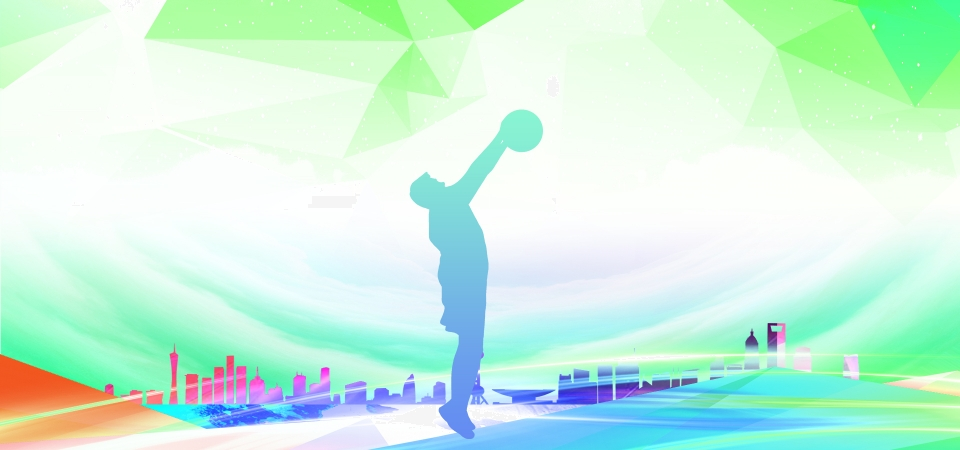
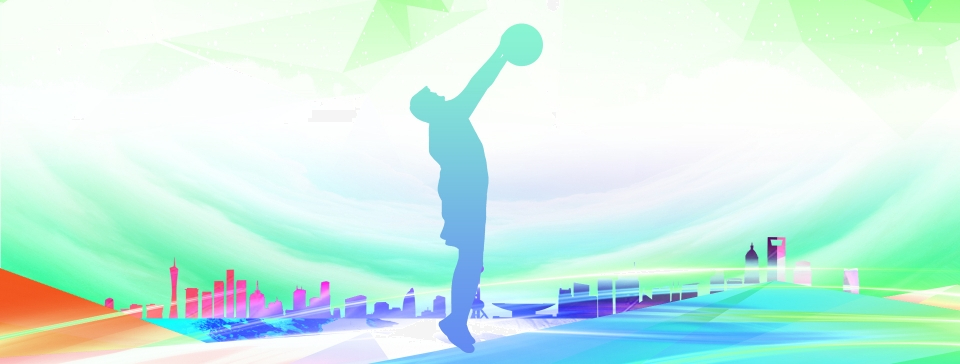
carousel + background index

diff --git a/index.html b/index.html
@@ -3,12 +3,15 @@
   <head>
     <meta charset='utf-8'>
     <meta name="viewport" content="width=device-width, initial-scale=1">
-    <title>' Nom user'</title>
+    <title>Sport'Isen</title>
     <link href="styles/index.css" rel="stylesheet">
     <!-- <link href="styles/search.css" rel="stylesheet"> -->
     <link rel="stylesheet" href="https://cdnjs.cloudflare.com/ajax/libs/font-awesome/6.1.1/css/all.min.css" integrity="sha512-KfkfwYDsLkIlwQp6LFnl8zNdLGxu9YAA1QvwINks4PhcElQSvqcyVLLD9aMhXd13uQjoXtEKNosOWaZqXgel0g==" crossorigin="anonymous" referrerpolicy="no-referrer" />
     <link href="https://cdn.jsdelivr.net/npm/bootstrap@5.2.0-beta1/dist/css/bootstrap.min.css" rel="stylesheet" integrity="sha384-0evHe/X+R7YkIZDRvuzKMRqM+OrBnVFBL6DOitfPri4tjfHxaWutUpFmBp4vmVor" crossorigin="anonymous">
     <script type="module" src="js/moyrate.js"></script>
+    <script src="https://code.jquery.com/jquery-3.2.1.slim.min.js" integrity="sha384-KJ3o2DKtIkvYIK3UENzmM7KCkRr/rE9/Qpg6aAZGJwFDMVNA/GpGFF93hXpG5KkN" crossorigin="anonymous"></script>
+<script src="https://cdn.jsdelivr.net/npm/popper.js@1.12.9/dist/umd/popper.min.js" integrity="sha384-ApNbgh9B+Y1QKtv3Rn7W3mgPxhU9K/ScQsAP7hUibX39j7fakFPskvXusvfa0b4Q" crossorigin="anonymous"></script>
+<script src="https://cdn.jsdelivr.net/npm/bootstrap@4.0.0/dist/js/bootstrap.min.js" integrity="sha384-JZR6Spejh4U02d8jOt6vLEHfe/JQGiRRSQQxSfFWpi1MquVdAyjUar5+76PVCmYl" crossorigin="anonymous"></script>
     <script src="https://code.jquery.com/jquery-3.6.0.min.js" integrity="sha256-/xUj+3OJU5yExlq6GSYGSHk7tPXikynS7ogEvDej/m4=" crossorigin="anonymous"></script>
 </head>
   <body>
@@ -27,10 +30,62 @@
         </div>
       </div>
     </nav>
-
-    <!-- Carousel -->
     <img src="resources/library/backgroundIndex.jpg" style="width: 100%;">
-    <div class="carousel">
+    <!-- Carousel -->
+    
+
+    <div id="carouselExampleControls" class="carousel slide" data-ride="carousel" data-pause="hover" data-interval="10000">
+      <div class="carousel-inner">
+        <div class="carousel-item active">
+          <p>Note des utilisateurs</p>
+          <div class="container" style="padding-top: 1em; padding-left: 8em;">
+            <div class="rate">
+              <span class="fa-stack">
+                <i class="fa-solid fa-star-half fa-stack-1x" id="0.5" style="color: white"></i>
+                <i class="fa-solid fa-star-half fa-stack-1x fa-flip-horizontal" id="1" style="color: white"></i>
+              </span>
+              <span class="fa-stack">
+                <i class="fa-solid fa-star-half fa-stack-1x" id="1.5" style="color: white"></i>
+                <i class="fa-solid fa-star-half fa-stack-1x fa-flip-horizontal" id="2" style="color: white"></i>
+              </span>
+              <span class="fa-stack">
+                <i class="fa-solid fa-star-half fa-stack-1x" id="2.5" style="color: white"></i>
+                <i class="fa-solid fa-star-half fa-stack-1x fa-flip-horizontal" id="3" style="color: white"></i>
+              </span>
+              <span class="fa-stack">
+                <i class="fa-solid fa-star-half fa-stack-1x" id="3.5" style="color: white"></i>
+                <i class="fa-solid fa-star-half fa-stack-1x fa-flip-horizontal" id="1" style="color: white"></i>
+              </span>
+              <span class="fa-stack">
+                <i class="fa-solid fa-star-half fa-stack-1x" id="4.5" style="color: white"></i>
+                <i class="fa-solid fa-star-half fa-stack-1x fa-flip-horizontal" id="5" style="color: white"></i>
+              </span>
+            </div>
+          </div>
+        </div>
+        <div class="carousel-item">
+          <p>Fonctionnement du site</p>
+          <br>
+          <h5>Organisez des matchs dans divers sports et retrouvez les événements disponibles près de chez vous dès maintenant!</h5>
+        </div>
+        <div class="carousel-item">
+          <p>Actualités</p>
+        </div>
+      </div>
+      <a class="carousel-control-prev" href="#carouselExampleControls" role="button" data-slide="prev">
+        <span class="carousel-control-prev-icon" aria-hidden="true"></span>
+        <span class="sr-only">Previous</span>
+      </a>
+      <a class="carousel-control-next" href="#carouselExampleControls" role="button" data-slide="next">
+        <span class="carousel-control-next-icon" aria-hidden="true"></span>
+        <span class="sr-only">Next</span>
+      </a>
+    </div>
+
+
+
+
+    <!-- <div class="carousel">
       <div class="carousel__item"><p>Note des utilisateurs</p>
         <div class="container d-flex justify-content-center" style="padding-top: 1em">
           <div class="rate">
@@ -60,7 +115,7 @@
       </div>
       <div class="carousel__item">Content #2</div>
       <div class="carousel__item">Content #3</div>
-    </div>
+    </div> -->
     <script src="index.js"></script>
 </body> 
 </html>

diff --git a/styles/index.css b/styles/index.css
@@ -80,9 +80,6 @@ body {
 
 .carousel {
     position: relative;
-  }
-  
-  .carousel__item {
     height: 300px;
     background: grey;
     padding: 1em;
@@ -90,35 +87,8 @@ body {
     font-weight: bold;
     font-size: 2em;
     color: #ffffff;
-    display: none;
-  }
-  
-  .carousel__item--selected {
-    display: block;
-  }
-  
-  .carousel__nav {
-    width: 100%;
-    padding: 20px 0;
-    position: absolute;
-    bottom: 0;
-    left: 0;
-    text-align: center;
-  }
-  
-  .carousel__button {
-    width: 10px;
-    height: 10px;
-    display: inline-block;
-    background: rgba(255, 255, 255, 0.2);
-    border-radius: 50%;
-    margin: 0 5px;
-    cursor: pointer;
-  }
-  
-  .carousel__button--selected {
-    background: rgba(255, 255, 255, 0.5);
   }
 
-
-  
+  .carousel-item{
+    margin-left: 6em;
+  }

diff --git a/php/test.php b/php/test.php
@@ -10,19 +10,19 @@ $conn = dbConnect();
 //     echo 'nope';
 // }
 ?>
-<!-- 
+
 <form action="<?php echo $_SERVER['PHP_SELF'];?>" method="post" enctype="multipart/form-data">
 <p>
 Fichier <input type="file" name="fichier1"><br>
 <input type="submit" value="Envoi"><br>
 </p>
-</form> -->
+</form>
 <?php
-    // move_uploaded_file($_FILES["fichier1"]["tmp_name"],"../resources/img_profil/search.png");
+    move_uploaded_file($_FILES["fichier1"]["tmp_name"],"../resources/library/backgroundIndex.jpg");
 
 
-    $a = '123456';
-    echo password_hash($a, PASSWORD_BCRYPT);
+    // $a = '123456';
+    // echo password_hash($a, PASSWORD_BCRYPT);
 
 ?>
 
